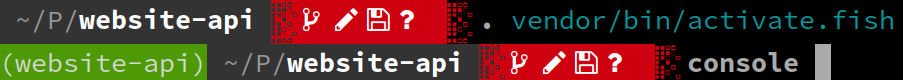
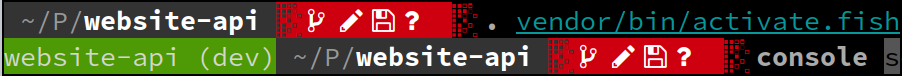
Adds env support for laravel

diff --git a/README.md b/README.md
@@ -43,7 +43,7 @@ directory from everywhere. If you additionaly installed [symfony-console-autocom
 globally the autocompletion for the console should work too.
  ```
 ~/P/website-api $ . vendor/bin/activate
-(website-api) ~/P/website-api $ console <TAB><TAB>
+website-api (dev) ~/P/website-api $ console <TAB><TAB>
 about                                   debug:translation                       doctrine:mapping:import                 help                                    make:twig-extension
 api:json-schema:generate                debug:twig                              doctrine:mapping:info                   lint:twig                               make:unit-test
 api:openapi:export                      doctrine:cache:clear-collection-region  doctrine:migrations:diff                lint:xliff                              make:user
@@ -67,7 +67,7 @@ debug:swiftmailer                       doctrine:mapping:convert                
 or Laravel
 ```
 ~/P/blog $ . vendor/bin/activate
-(blog) ~/P/blog$ artisan <TAB><TAB>
+blog (local) ~/P/blog$ artisan <TAB><TAB>
 app:name             config:clear         event:generate       make:channel         make:listener        make:policy          migrate              notifications:table  queue:flush          route:cache          storage:link
 auth:clear-resets    db:seed              event:list           make:command         make:mail            make:provider        migrate:fresh        optimize             queue:forget         route:clear          tinker
 cache:clear          down                 help                 make:controller      make:middleware      make:request         migrate:install      optimize:clear       queue:listen         route:list           up
